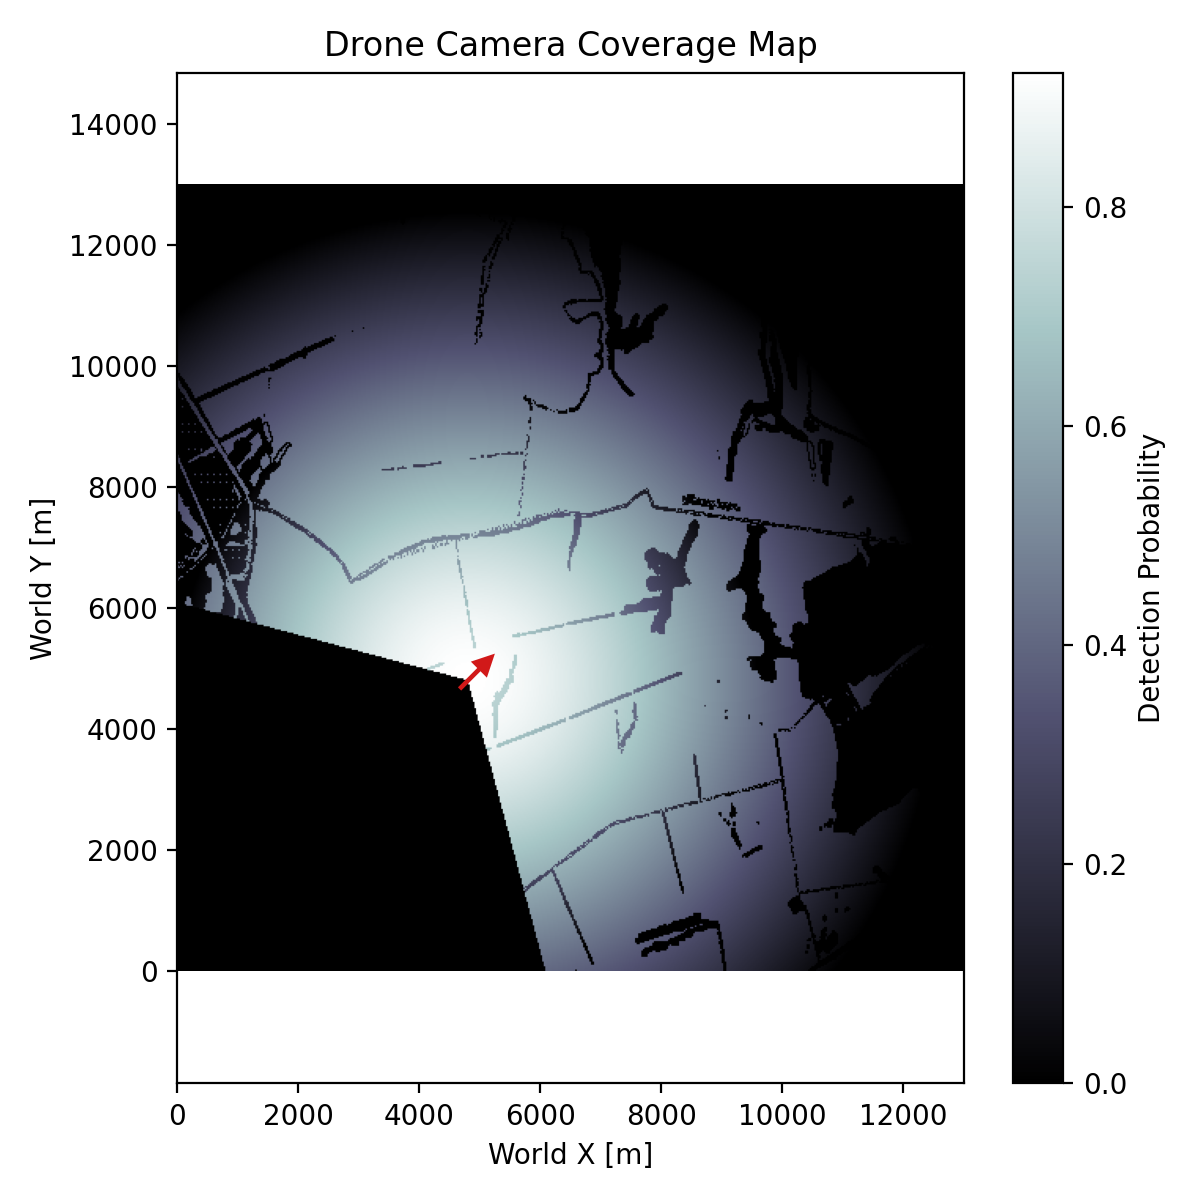
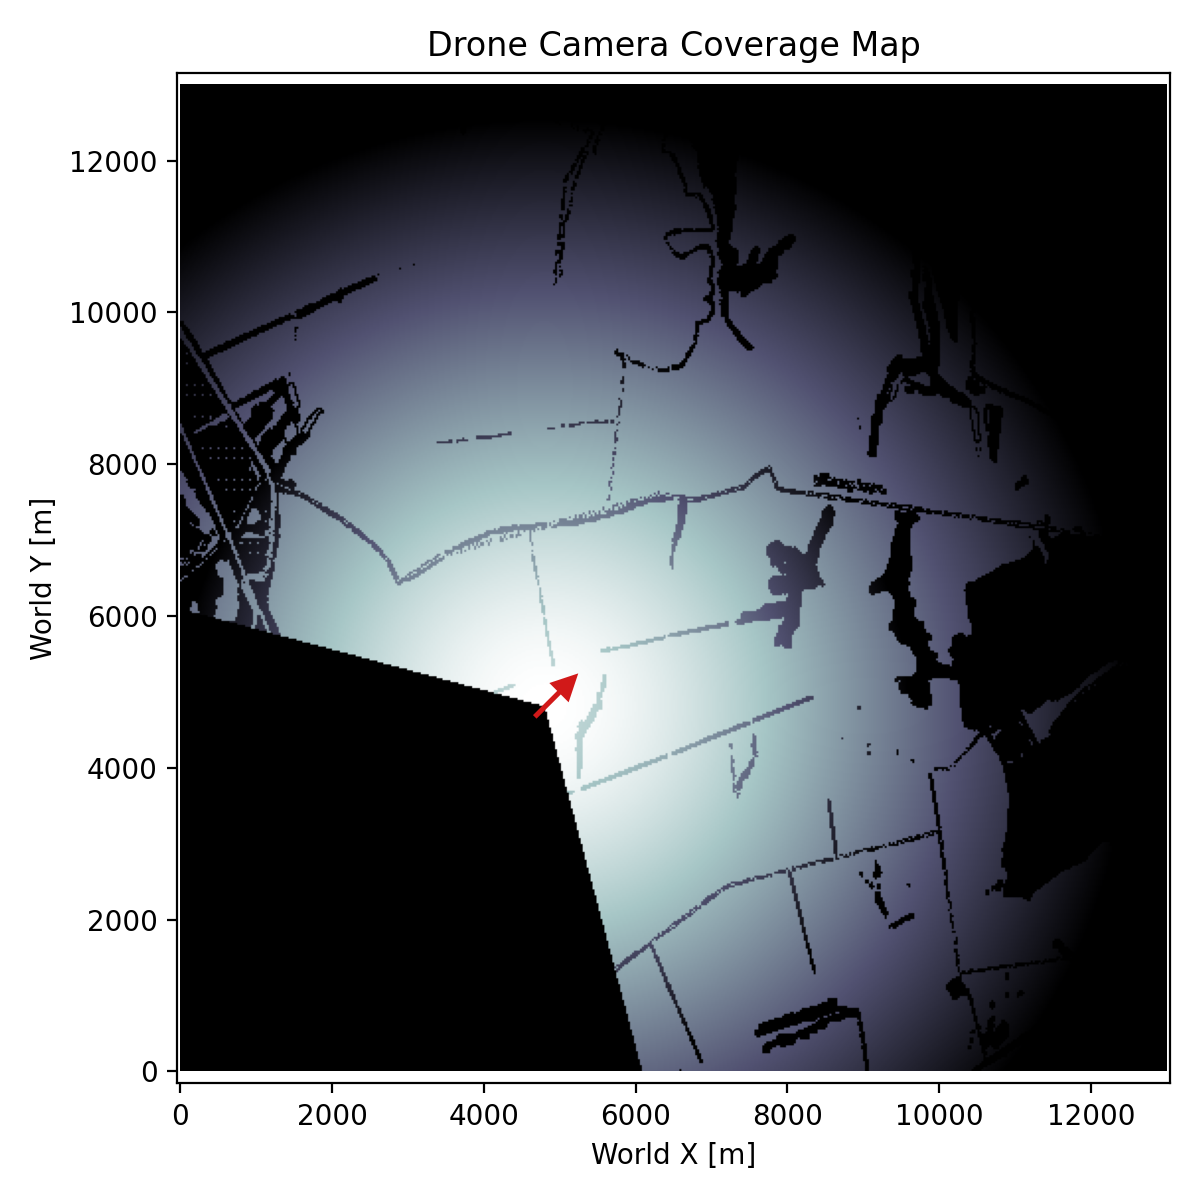
pitch images

diff --git a/src/plot.py b/src/plot.py
@@ -157,7 +157,6 @@ def plot_drone_view_cone_no_terrain():
     plt.arrow(pos[0], pos[1],
             direction[0]*arrow_scale, direction[1]*arrow_scale,
             head_width=300, head_length=300, fc='#d11919', ec='#d11919', width=30)
-    plt.colorbar(label='Detection Probability')
     plt.title('Drone Camera Coverage Map')
     plt.xlabel('World X [m]')
     plt.ylabel('World Y [m]')
@@ -189,4 +188,4 @@ def plot_terrain():
     plt.show()
 
 
-plot_drone_view_cone()
+plot_drone_view_cone_no_terrain()
